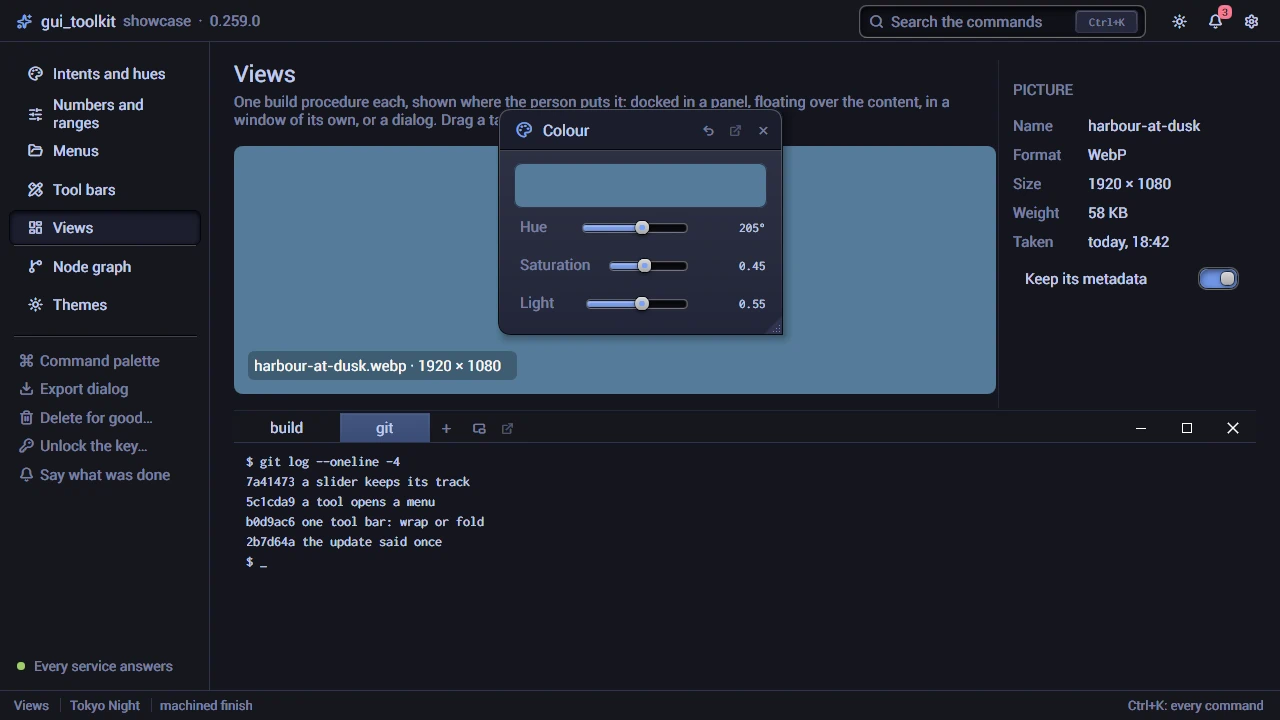
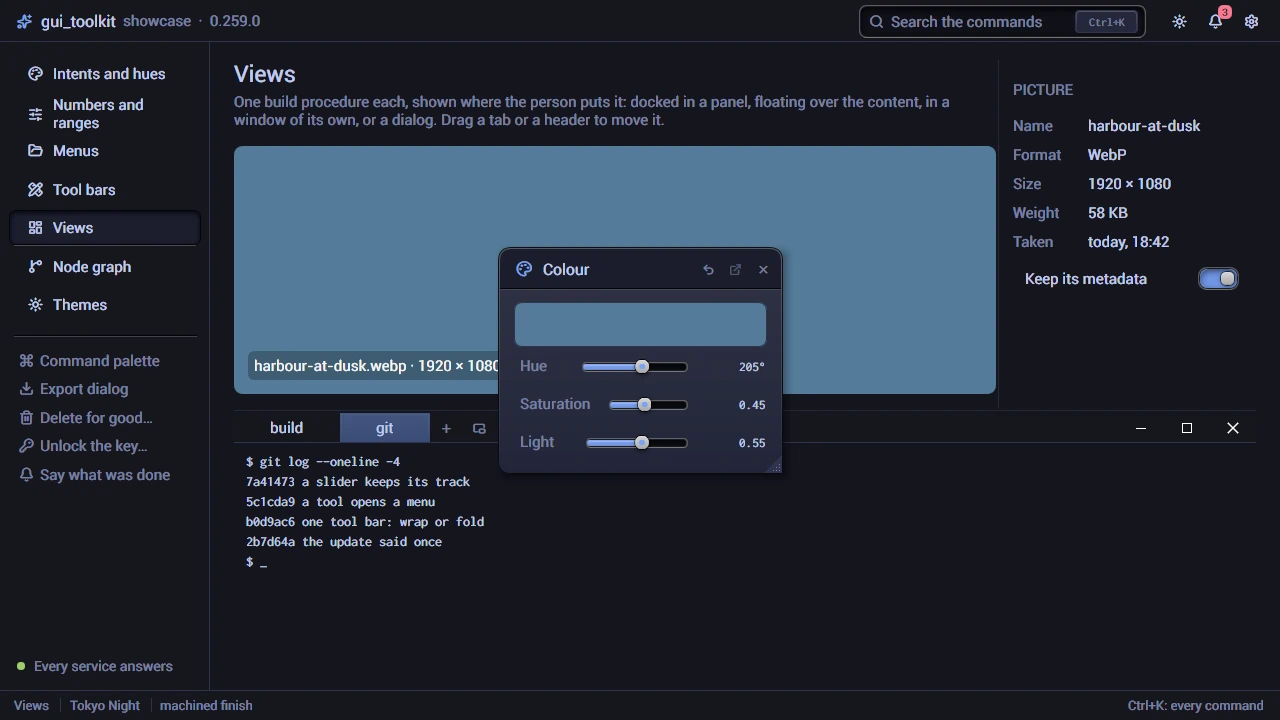
Views: a floating window with no place of its own opens centred over the content

Changed region(s): [[0.375, 0.1528, 0.625, 0.6722]]

diff --git a/src/md/features/views.md b/src/md/features/views.md
@@ -964,8 +964,12 @@ is the terminal whose view has the focus.
   the remembered rect is not changed.
 - Its rect is in logical pixels from the owner's top left (`internal=` in the memory), written when a move or a resize
   is let go. With no rect remembered, it opens where the dialog was (Detach, or a drag of the dialog's header), else
-  centred, as wide as what is in it asks (`width_em` at least), as tall as what is in it: its height is taken from its
-  first settled layout.
+  centred over the program's content (`view_content_area`: the content leaf of the window's `views_frame`, its last
+  layout; the whole window without a frame), across and down, as wide as what is in it asks (`width_em` at least), as
+  tall as what is in it: its height is taken from its first settled layout. Its unseen builds centre it again once
+  its width and its height are known, so the frame that shows it is where it stays. Refused: a fixed share of the
+  window's height (VIEW_INTERNAL_TOP, 15 %: it covered the page's heading) and the whole window's centre (it covered
+  the panels).
 - **Its least width is what is in it on one line** (`view_internal_fit`, each build before the layout: the dialog's
   measure, `natural_width`, kept as `View_Record.inatural`). One that opened with no rect grows to it, centred, during
   its unseen builds (`ifit`); any other rect (the memory's, the dialog's or the panel's it came from) is widened to it;

diff --git a/docs/views.md b/docs/views.md
@@ -175,8 +175,9 @@ no scrim, the page stays usable and keeps its keys.
   bottom right corner has the resize grip.
 - It stays inside the window: a window made smaller moves it in, its remembered rect unchanged.
 - Its rect is remembered (`internal=`, logical pixels) when a move or a resize is let go. With none, it opens where the
-  dialog was, else centred, as wide as what is in it asks (`width_em` at least: measured unseen with a dialog's
-  measure, `natural_width`), as tall as what is in it.
+  dialog was, else centred over the program's content (the content of `views_frame`, as its last layout made it: not
+  over the panels; the whole window without a frame), across and down, as wide as what is in it asks (`width_em` at
+  least: measured unseen with a dialog's measure, `natural_width`), as tall as what is in it.
 - **What is in it is never cut across.** Whatever its rect (the memory's, a dialog's, a panel's, the user's resize),
   it is never narrower than what is in it on one line: a label stays whole. Its height is the user's: what does not
   fit is clipped, and the program's scroll regions scroll. A `form_row`'s label is at least its words on one line

diff --git a/changelog.d/20261115-080000-floating-window-over-content.md b/changelog.d/20261115-080000-floating-window-over-content.md
@@ -1,0 +1,3 @@
+type: Changed
+
+**A floating window opens in the middle of the content**: a view that opens as a floating window with no remembered place is centred, across and down, over the program's content (beside the docked panels), instead of near the top of the window, where it covered the page's heading. One detached from a dialog still opens where the dialog was.
